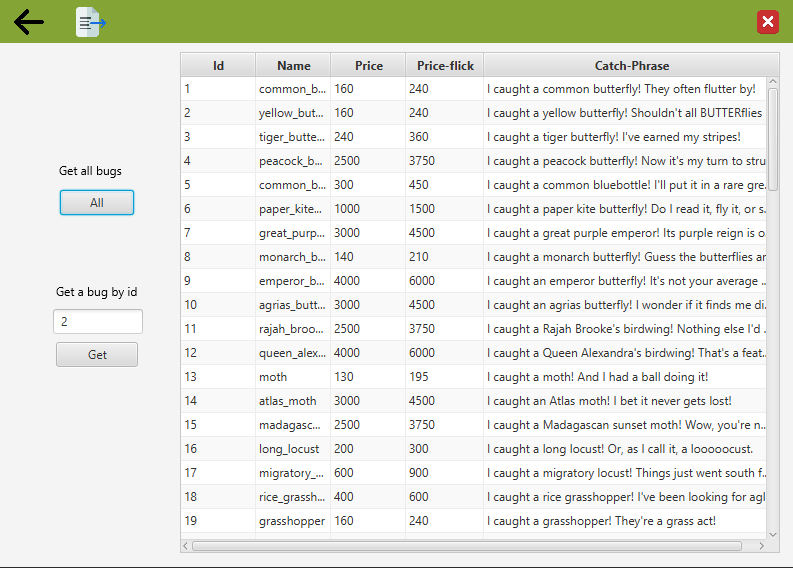
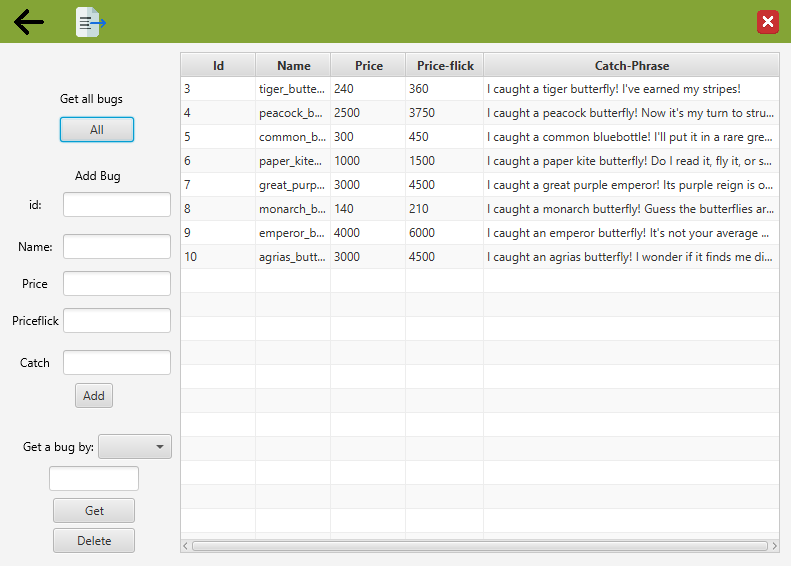
feat:Documentacion creada

diff --git a/src/main/java/com/example/proyectoud1pablorl/Controller/BugController.java b/src/main/java/com/example/proyectoud1pablorl/Controller/BugController.java
@@ -109,7 +109,7 @@ public class BugController implements Initializable {
     }
 
     /**
-     * inicializa las columnas de la tabla y añadel los filtros para el fileChooser
+     * inicializa las columnas de la tabla , añade los filtros para el fileChooser y añade los objetos las combobox
      * @param url
      * @param resourceBundle
      */

diff --git a/README.md b/README.md
@@ -1,47 +1,92 @@
 # Supuesto
 
-Una aplicacion para el juego de Animal Crossing: New Horizons donde se puede consultar informacion sobre los Peces , Fosiles y Bichos que puedes conseguir en el juego.
-Utilizamos La Api de acnhapi.
+Una aplicación para el juego de Animal Crossing: New Horizons donde se puede consultar informacion sobre los Peces , Fosiles y Bichos que puedes conseguir en el juego. .
 
-Aqui esta la coleccion que cree en postman junto con 3 request a la api:
+Estos son los diagramas ER/CrowsFoot de la BD.
 
-![request1](/Documentacion/cap1.png)
+![eer](/Documentacion/eer.png)
 
-
-![request2](/Documentacion/cap2.png)
-
-
-![request3](/Documentacion/Cap3.png)
-
+![cfn](/Documentacion/cfm.png)
 
 # Manual Tecnico para desarrolladores
 
 Para empezar esta manual tecnico lo primero vamos a ver la estructura del proyecto
 
-![estructura](/Documentacion/Estructura%20de%20proyecto.png)
+![estructura](/Documentacion/estructura.png)
 
-Ahora vamos a tratar unao de los tres controlladores que utilizo para acceder a la api ya que el codigo 
+
+Este proyecto utiliza una base de datos echa en mysql pare interatuar con esta utilizamos un jdbc y para simplificar el uso de este tenemos una clase dao con todos los metodos relacionados con la base de datos.
+
+![conexion](/Documentacion/conexion.png)
+
+este es uno de los metodos principales y posiblemente el mas importante con este se establece conexion con la base de datos y devuelve este este objecto Connection.
+
+Este objeto Connection es un atributo en  las caleses controlladores y es el que usan para poder utilizar el resto de metodos del dao.
+
+los metodos del dao de esta aplicacion cumplen 3 funciones lectura, escritura y eliminacion en la base de datos.
+
+![getall](/Documentacion/getall.png)
+
+Este metodo del dao devuelve un arraylist con todas las filas de la tabla fish, primero este metodo exigue un atributo Connection para ser ejecutado y despues hace una consulta a la base de datos y con los datos de la consulta crea objetos tipo fish que introduce en un arraylist que retorna.
+
+Existen otros 2 metodos iguales a este pero cada uno para una tabla diferente.
+
+![shadow](/Documentacion/getfishbyshadow.png)
+
+Otro de los metodos del dao nos permiten obtener un fila o filas de la una tabla utilizando un dato de las columnas de la tabla , es decir en este caso utilizando una sombra el cual es un dato que es una columna en la tabla fish podemos obtener las filas que con el mismo shadow que el dato que introducimos , este metodo devuelve un arraylist porque hay filas con la misma shadow.
+
+Existe un metodo parecido para cada columna de la base de datos.
+
+![savedao](/Documentacion/savedao.png)
+
+Este metodo se utiliza para guarda una fila en la base de datos , en este caso un objeto fossil este metodo recibe una conxion y un objeto fossil estrae los datos del objeto fossil y despues los introduce en la tabla.
+
+Existen metodos parecidos para todas las tablas de la base de datos.
+
+
+![deleteby](/Documentacion/deleteBy.png)
+
+Este es el ultimo tipo de metodo del dao que se encarga de eliminar filas de las tablas , se le pasa un dato este se busca en la columna de la tabla en este caso serian las id de la tabla bug y si encuentra ese datos se elimina.
+
+
+
+Ahora vamos a tratar unao de los tres controlladores que utilizo para cada escena de javafx ya que el codigo 
 es muy parecido entre estos.
 
-![codigo1](/Documentacion/Initialize.png)
+![initi](/Documentacion/initialize.png)
 
 todos los controlladores implementa inicializable por lo que todos tienen un metodo initialize
-en estos suelo darle el cell value a las columnas de la tabla y añado los filtros al file Chooser.
+en estos suelo darle el cell value a las columnas de la tabla y añado los filtros al file Chooser aparte de añadir los objetos de la combobox.
 Esto solo cambia en el controlador de la pagina principal.
 
 ahora vamos a ver los metodo de los controlladores.
 
-![metodo1](/Documentacion/getAll.png)
+![metodo1](/Documentacion/getallbug.png)
 
-Este metodo simplemente manda una peticion get a la api obtiene el resultado , utilizando un ObjectMapper convertimos el json que nos da la api en clases java que forman parte de un array luego este se lo pasamos a la table view y esta lo procesa internamente y lo escribe en la tabla.
+Este metodo simplemente utiliza un metodo del dao para obtener todos los bichos en un arraylist y le pasa este arraylist a la tabla, esta con el metodo addAll añade todos los objetos de la lista a la tabla.
 
-![getOne1](/Documentacion/get%20one%20first%20part.png)
+![getcolumn](/Documentacion/getbycolumn.png)
 
-Este es el metodo que se utiliza para conseguir un solo objeto para esto el usuario insertara un id , lo primero que hacemos es comprobar que no este vacio el texto si lo esta no el metodo hace absolutament nada, si el campo de texto no esta vacio entonces mediante un patter y un matcher se comprueba que es un decimal devio  a que en java fx no se puede hacer un text field que solo admita decimales.
+Este metodo es el que se ejecuta cuando se busca un objeto o objetos de la base de datos mediante un input que introduce el usuario, lo primero que hace es comprobar que el combobox que se utiliza para selecionar el metodo de busqueda no este bacio / no se a selecionado nada, despues obtiene el valor de la combobox y lo compara para saber el parametro de busqueda ,una vez encontrado se llama a un metodo especifico que busca el objeto gracias a un metodo del dao y lo escribe en la tabla
 
-![getOne2](/Documentacion/get%20one%202%20part.png)
 
-Una vez que se comprueba que la id es valida se ejecuta un codigo muy parecido al metodo anterior simplemente que este no obtiene un arrya sino un objeto que se añade a la tabla, antes de todo eso hay que remarcar que se borra todos los  contenidos de la tabla.
+![getone](/Documentacion/getbugbyid.png)
+
+este es uno de los metodos que se utilizan en getBugbyColumn , este simplemente obtiene una id que el usuario introduce en un textfield , comprueba de que este textfield no este vacio y en este caso,  donde la id es de tipo int, se comprueba que solo se introduce numeros , una vez que se compruebe esto se llama a un metodo del dao que devuelve un objeto de tipo bug que se añade a la tabla.
+
+el resto de los metodos de getBugbyColumn son identicos al ultimo metodo ,vamos ahora a ver el metodo de delete el cual utiliza tambien el textfield donde el usuario introduce un input que corresponde a una de las columnas de la tabla.
+
+![delete](/Documentacion/delete.png)
+
+Este metodo es muy parecido a getBugbyColumn simplemente cambia los metodos que invoca desde el dao ahora simplemente borrara filas de la tabla de la base de datos utilizando el input del usuario para encontrar las filas que borrar.
+
+El ultimo metodo que se deveria nombrar es el que se encarga de hacer la tercera accion crud de la aplicacion hemos visto tanto busqueda como elimicion en la tabla y este se encarga de añadir filas.
+
+![add](/Documentacion/add%20part%20one.png)
+![ad](/Documentacion/addmid.png)
+![addd](/Documentacion/add%20part%202.png)
+
+en este metodo primero comprobamos que ninguno de los campos de texto esten vacios,despues se comprueba que en los campos que necesitan numeros decimales no se encuentre ningun caracter despues de eso se obtienen todos los valores que introduce el usuario y se crea un objeto de en este case tipo Bug, este objeto es introducio en un metodo de la clase dao que lo añade a la base de datos.
 
 Vamos ahora  a hablar sobre el controllador de la pagina de inicio , lo unico destacable es el menu que se crea dentro del metodo initialize , este se crea utilizando  transitions y fade transitions.
 
@@ -62,10 +107,10 @@ Empezemos lo primero para poder utilizar el fileChooser necesitamos la ventana q
 
 Despues le doy un titulo y seleciono el nombre por defecto de los documentos a continuacion utilizo el metodo showSaveDialog de FileChooser utilizando como atributo la ventana ,este metodo devuelve un documento de la clase File y con este creo un documento.
 
-Luego escribo en este documento la informacion , el metodo le la tabla y dependiendo de si el usuario tiene la tabla llena o solo una entrada en la tabla obtiene los datos , hace una request a la api y lo escribe en el documento.
+Luego escribo en este documento la informacion , el metodo lee la tabla y dependiendo de si el usuario tiene la tabla llena o solo una entrada en la tabla obtiene los datos , mediante metodos del dao y lo escribe en el documento.
 
 
-y con con esto explico el codigo mas complejo de mi projecto el resto de los metodos estan comentados y son sencillos de entender
+y con con esto explico el codigo mas complejo de mi projecto el resto de los metodos estan comentados y son sencillos de entender.
 
 
 
@@ -94,19 +139,22 @@ Esta seria la pagina de inicio en la izquierda tienes un menu con tres botones, 
 ![pagina de inicio](/Documentacion/HomePage.png)
 
 ![Menu](/Documentacion/Menu.png)
-Entremos por ejemplo en fish al hacer click sobre la palabra o el icono nos llevara a una ventana simple con una tabla y dos botones,
-utilizando estos botones se escribe informocion en la tabla tienes la opcion de por ejemplo obtener todos los peces en este caso o solo uno utilizando la id.
-En la parte de arriva hay una barra en verde con las siguientes opciones una flecha para poder volver a la pagina de inicio y un icono de un documento este es utilizado para exportar la informacion de la tabla a texto o json.
+Entremos por ejemplo en bug al hacer click sobre la palabra o el icono nos llevara a una ventana simple,
+utilizando los botones se escribe informocion en la tabla , tienes la opcion de por ejemplo obtener todos los bichos en este caso o obtener bichos especificos con el campo de texto y boton en la parte de abajo de la ventana.
+En la parte de arriva hay una barra en verde con las siguientes opciones una flecha para poder volver a la pagina de inicio y un icono de un documento este es utilizado para exportar la informacion de la tabla a texto .
 
-![Fish](/Documentacion/Fish.png)
+![Fish](/Documentacion/bug.png)
 
-![Bug](/Documentacion/One%20Bug.png)
+![Bug](/Documentacion/All%20bug.png)
 
-![BugAll](/Documentacion/All%20bug.png)
+![BugAll](/Documentacion/One%20bug.png)
 
-La ventana de fosiles es un poco diferente a las demas pues necesita el nombre del fossil para poder conseguir informacion en vez de una id.
+![part2](/Documentacion/One%20bug%202.png)
 
-![Fossil](/Documentacion/Fossil.png)
+la siguiente opcion seria introducir datos en los campos de texto que se encuentran en la mitad de la ventana, despues de introducir esos datos clickas en el boton add y se añadiran los datos a la base de datos.
+![shu](/Documentacion/addbicho.png)
+
+![loco](/Documentacion/result%20bicho.png)
 
 Ahora vamos a probar a exporta para esto hacemos click en el icono del documento que esta arriba a la  izquierda, despues de esto aparecera otra ventana donde podras selecionar donde guardar y en que formato.
 
@@ -118,10 +166,10 @@ Ahora vamos a probar a exporta para esto hacemos click en el icono del documento
 
 # Propuestas de mejora
 
- Las propuestas de mejora que veo serian la creacion de otra ventana con informacion mas detallada de los objetos ya sea pezes , fossiles o bichos y a esta la accederias clickando sobre el objeto en la tabla.
+ Las propuestas de mejora que veo serian la creacion de otra ventana donde se pueda añadir desde esta objetos a la tabla esto devido a que los campos de texto que se utilizan para añadir filas a la base de datos ocupan mucho espacio  y la ventana acaba pareciendo que esta todo apretado en un lugar.
  
 Otra opcion seria conseguir que se pueda arrastrar la aplicacion y que se pueda exportar la informacion en mas formatos.
 
 # Opinion 
 
-Bastante contento con el trabajo y el producto final , no consumio tanto tiempo como pense de echo fui a una marcha bastante relajada y aun asi me sobraron dias, mi cualificacion estimada sera sobre el 7 mas o menos.
+Bueno contento con el final si que es verdad que puede mejorar unos aspectos pero estoy satisfecho con el resultado , espero tener la misma cualificacion que el anterior pero si que  es verdad que no lo noto tan pulido como el proyecto de la unidad 1.
